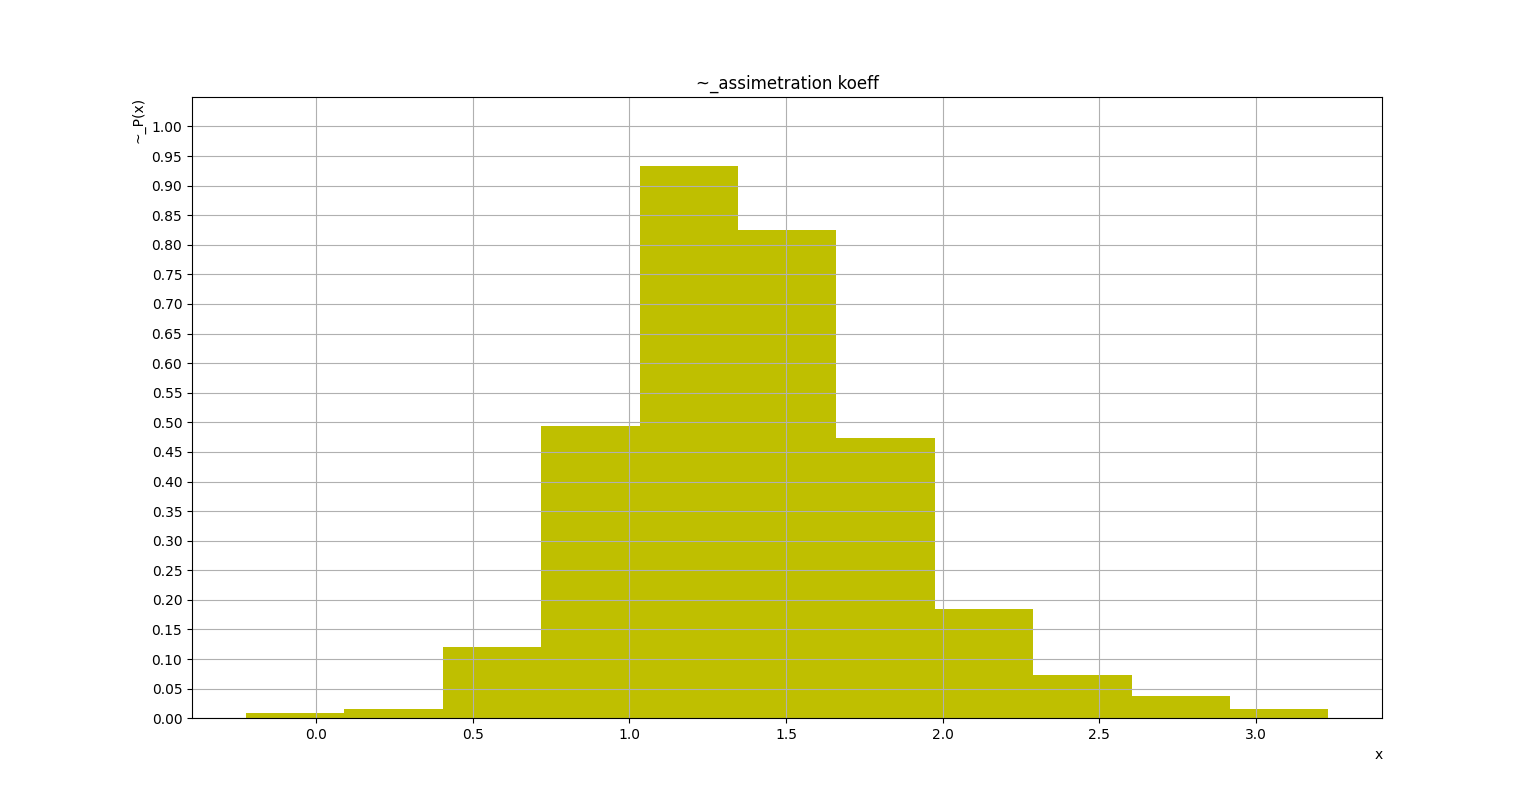
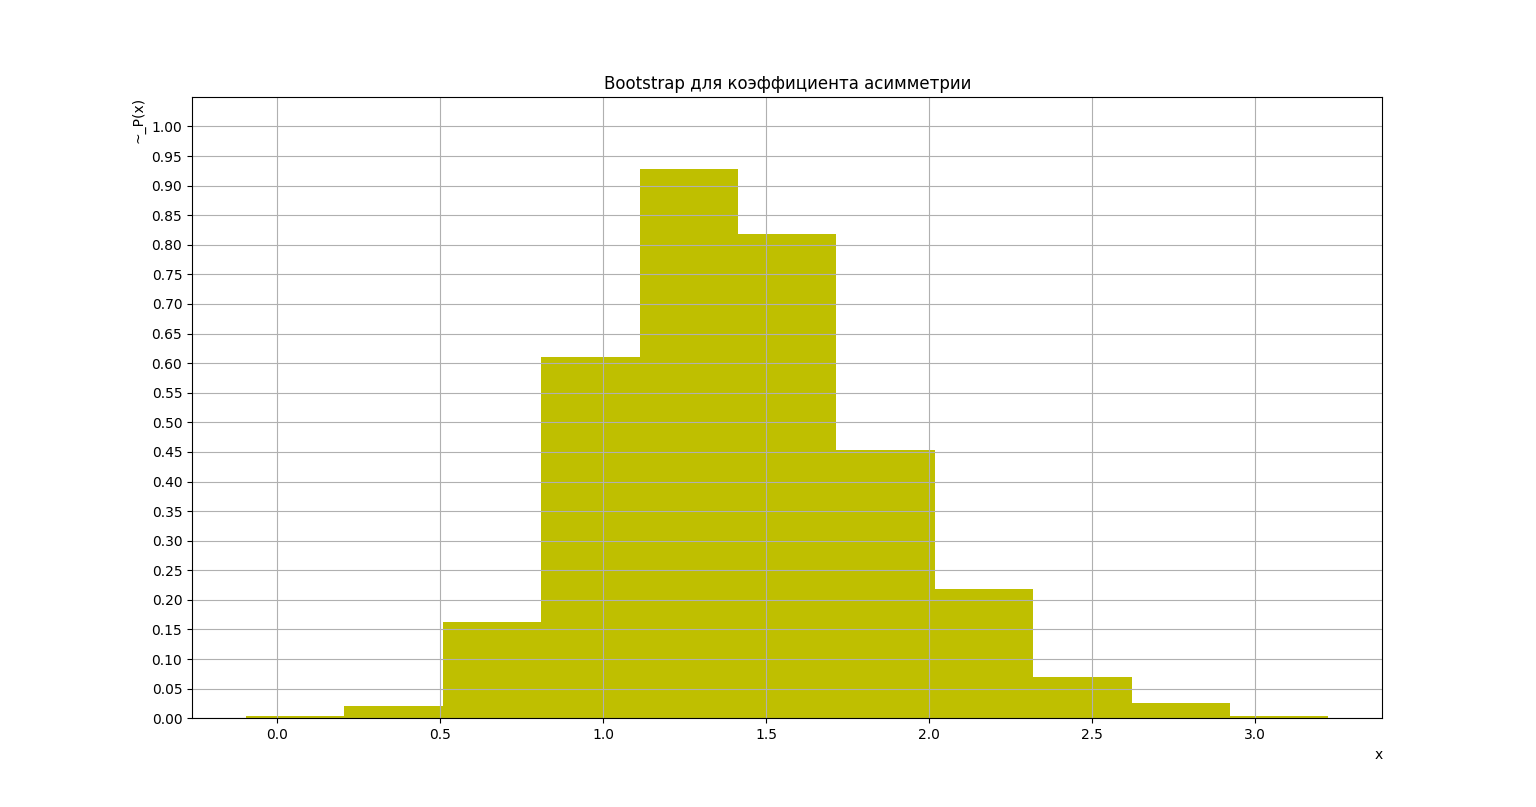
Испр ошибки: подписал графики, исправил состоят xmax в т4, написал обоснование использования формулы в т5ч

diff --git a/task_1/Т2/7_bootstrap_med.py b/task_1/Т2/7_bootstrap_med.py
@@ -29,7 +29,7 @@ x_med = np.linspace(np.min(x), np.max(x), n_full)
 plt.plot(x_med, len(x) * np.exp(-x_med) * comb(len(x)-1, i_med-1) * np.exp(-x_med)**(i_med-1) * (1 - np.exp(-x_med))**(len(x) - i_med),
         color='black', label = 'ЦПТ')   
 
-plt.title('~_med')
+plt.title('Bootstrap для медианы и сравнение его с ЦПТ для медианы')
 plt.xlabel('x', loc='right')
 plt.ylabel('~_P(x)', loc='top')
 plt.grid()

diff --git a/task_1/Т2/5_bootstrap_mean.py b/task_1/Т2/5_bootstrap_mean.py
@@ -30,7 +30,7 @@ x_mean = np.linspace(mu - 3 * sigma, mu + 3 * sigma, n_full)
 plt.plot(x_mean, stats.norm.pdf(x_mean, mu, sigma), color='black', label = 'ЦПТ')
 
 
-plt.title('~_mean')
+plt.title('Bootstrap для среднего арифметического и сравнение его с ЦПТ для среднего арифметического')
 plt.xlabel('x', loc='right')
 plt.ylabel('~_P(x)', loc='top')
 plt.grid()

diff --git a/task_1/Т2/9_bootstrap_assim_koeff.py b/task_1/Т2/9_bootstrap_assim_koeff.py
@@ -37,7 +37,7 @@ l = np.max(x_boot_assim) - np.min(x_boot_assim)
 delta = l/k
 print('l, k, delta = ', l, k, delta)
 plt.hist(x_boot_assim, bins = k, density=True, color='y')
-plt.title('~_assimetration koeff')
+plt.title('Bootstrap для коэффициента асимметрии')
 plt.xlabel('x', loc='right')
 plt.ylabel('~_P(x)', loc='top')
 plt.yticks(np.arange(0, 1.05, 0.05))

diff --git a/task_1/Т2/3_E(1)_~_F(X).py b/task_1/Т2/3_E(1)_~_F(X).py
@@ -21,6 +21,7 @@ plt.hlines(1, x[-1], x[-1]*1.1, colors='r')
 plt.scatter(x[-1], 1, facecolors='none', edgecolors='r')
 plt.scatter(x[0], cdf[0], color='r')
 
+plt.title('Эмпирическая функция распределения')
 plt.xlabel('x', loc='right')
 plt.xticks(np.arange(0, x[-1]*1.1, 0.2))
 plt.xlim(0, x[-1]*1.1)
